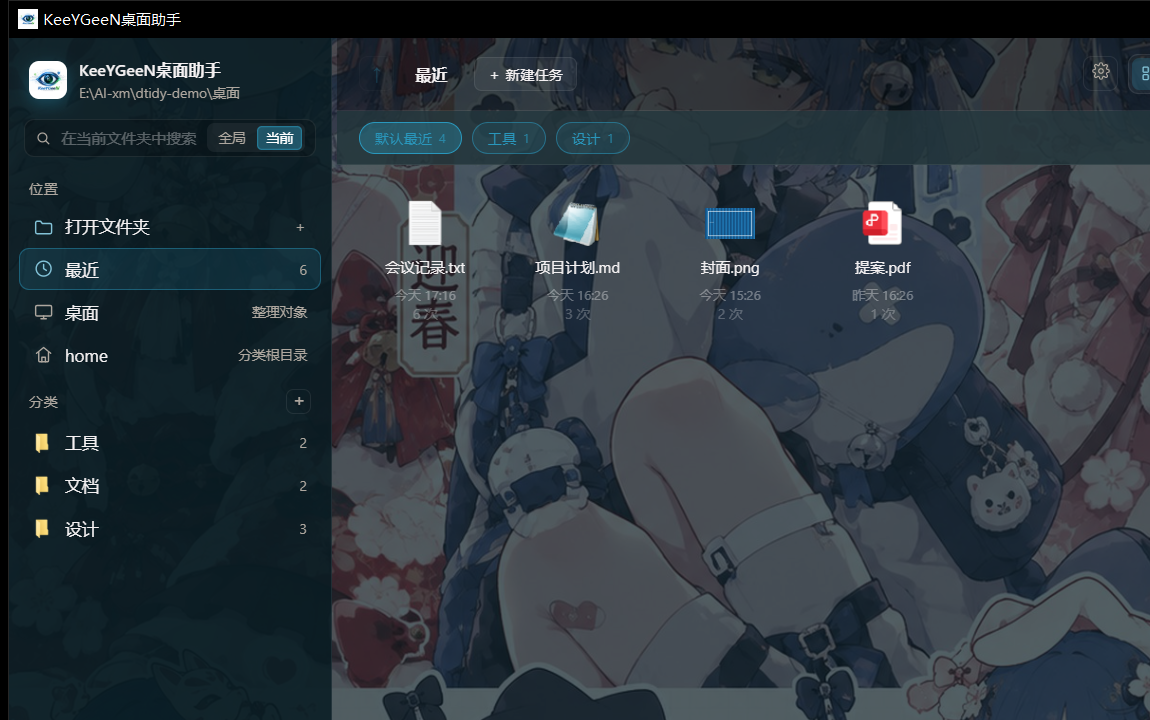
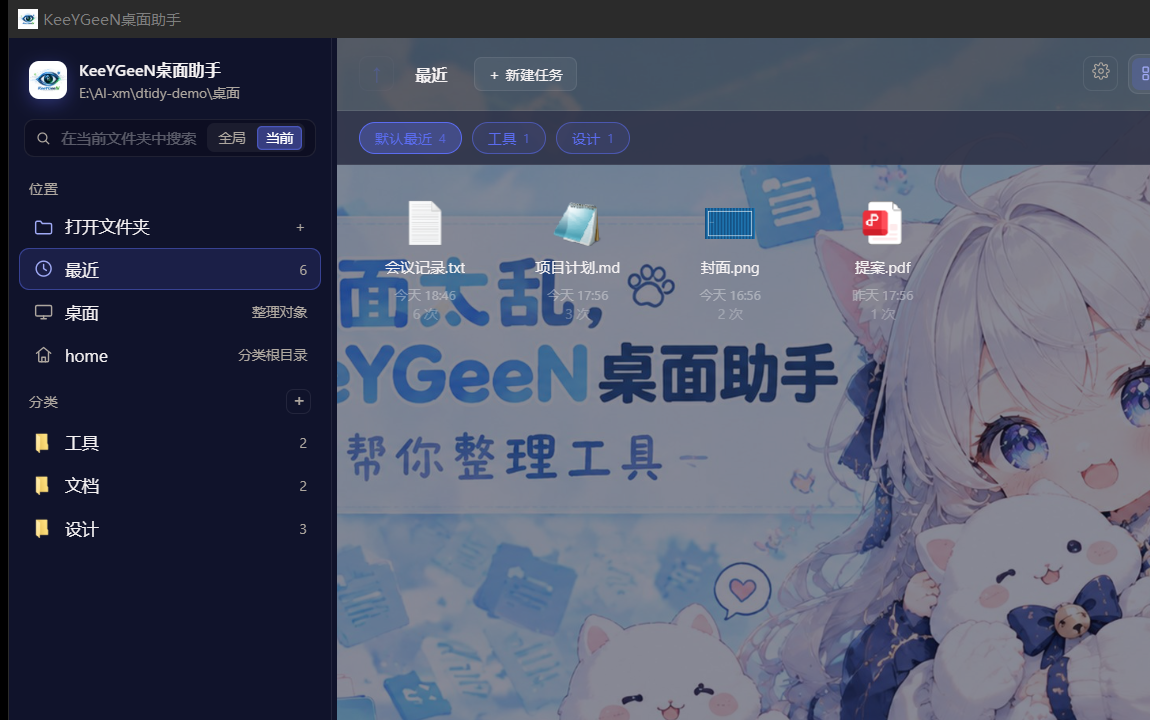
v0.13.2: 修复重复启动抢热键；README 首页图与脱敏界面截图更新

diff --git a/singleinstance_windows.go b/singleinstance_windows.go
@@ -4,36 +4,58 @@ package main
 
 import (
 	"syscall"
+	"time"
 	"unsafe"
 )
 
 var (
 	kernel32         = syscall.NewLazyDLL("kernel32.dll")
+	user32Single     = syscall.NewLazyDLL("user32.dll")
 	procCreateMutexW = kernel32.NewProc("CreateMutexW")
 	procCloseHandle  = kernel32.NewProc("CloseHandle")
+	procMessageBoxW  = user32Single.NewProc("MessageBoxW")
 )
 
 var singleInstanceMutex uintptr
 
-// ensureSingleInstance 防止重复启动：已有可见实例时唤出它并返回 false。
-// 若检测到的旧实例没有可见窗口（异常残留），则继续启动，避免应用打不开。
+// ensureSingleInstance 防止重复启动。
+//
+// 已经存在实例时：等待其主窗口出现（双击过快时第一个实例可能还没建好窗口），
+// 无论窗口是正常显示还是隐藏在托盘，都把它唤到前台后退出。
+// 即使找不到窗口也不再启动第二个实例——否则两个实例会争抢全局热键，
+// 出现「热键已被占用」的提示。
 func ensureSingleInstance() bool {
 	name, err := syscall.UTF16PtrFromString(appTitle + "_single_instance")
 	if err != nil {
 		return true
 	}
 	h, _, callErr := procCreateMutexW.Call(0, 0, uintptr(unsafe.Pointer(name)))
-	if h != 0 {
-		// Call 的第三个返回值就是 CreateMutexW 之后的 GetLastError
-		if errno, ok := callErr.(syscall.Errno); ok && errno == 183 { // ERROR_ALREADY_EXISTS
-			if w := findMainWindow(); w != 0 && isWindowVisible(w) {
-				procShowWindow.Call(w, swRestore)
-				procSetForegroundWnd.Call(w)
-				procCloseHandle.Call(h)
-				return false
-			}
-		}
-		singleInstanceMutex = h
+	if h == 0 {
+		return true
 	}
-	return true
+	if errno, ok := callErr.(syscall.Errno); !ok || errno != 183 { // ERROR_ALREADY_EXISTS
+		singleInstanceMutex = h
+		return true
+	}
+
+	// 已有实例：最多等 6 秒让它的主窗口就绪
+	deadline := time.Now().Add(6 * time.Second)
+	for time.Now().Before(deadline) {
+		if w := findMainWindow(); w != 0 {
+			procShowWindow.Call(w, swShowNormal)
+			procShowWindow.Call(w, swRestore)
+			procSetForegroundWnd.Call(w)
+			procCloseHandle.Call(h)
+			return false
+		}
+		time.Sleep(120 * time.Millisecond)
+	}
+
+	// 找不到窗口：互斥体被没有窗口的残留进程占着。仍然退出，
+	// 保证同一时间只有一个实例；提示用户从托盘图标唤出或清理残留进程。
+	title, _ := syscall.UTF16PtrFromString(appTitle)
+	text, _ := syscall.UTF16PtrFromString("程序已在运行，但主窗口未找到。\n请稍后从任务栏托盘图标中唤出，或结束残留进程后再试。")
+	procMessageBoxW.Call(0, uintptr(unsafe.Pointer(text)), uintptr(unsafe.Pointer(title)), 0x00000040)
+	procCloseHandle.Call(h)
+	return false
 }

diff --git a/app.go b/app.go
@@ -29,7 +29,7 @@ import (
 	"github.com/wailsapp/wails/v2/pkg/runtime"
 )
 
-var version = "0.13.1"
+var version = "0.13.2"
 
 // App 是暴露给前端的后端对象。
 type App struct {

diff --git a/docs/DESIGN.md b/docs/DESIGN.md
@@ -292,7 +292,7 @@ undo(batchID, cfg):
 - 布局：左栏 `搜索框 / 打开文件夹 / 已打开目录 / 桌面 / home / 分类 / 选中状态 + 移动按钮`；右栏路径栏 + 文件区（底部状态栏已并入侧栏）；侧栏与文件区之间是 `.splitter`，拖动范围 180–520px，写入 `sidebar_width`。
 - 搜索范围：`全局` 扫描桌面（含 home）、已打开文件夹与分类指定目录；`当前` 只扫描当前所在目录（分类同样适用），默认使用「当前」，切换后保存在 localStorage，搜索状态面包屑显示「当前：文件夹名」。
 - 文件右键：调用 `internal/shellmenu` 的原生 Shell 菜单（IContextMenu/IContextMenu2/IContextMenu3 + TrackPopupMenuEx），支持子菜单与第三方扩展；失败时回退内置菜单。为避免卡死 UI，菜单全部在独立的常驻 STA 线程执行（宿主 1×1 离屏窗口作 owner，弹出前临时置前；拿不到前台就取消并回退内置菜单）；每个请求有 `recover` 兜底，菜单 45 秒自动 `WM_CANCELMODE`，前端 60 秒超时复位。文件行走 `ShowShellMenu(paths)`（IShellFolder::GetUIObjectOf），文件区空白处走 `ShowShellMenuBackground(dir)`（BindToObject 得到目录 IShellFolder → CreateViewObject 取 IShellView → GetItemObject(SVGIO_BACKGROUND) 取背景菜单）。
-- 单实例：启动时用 `CreateMutexW`（名称前缀为窗口标题）判断；已有可见实例则还原并置前后退出，若旧进程无可见窗口则允许继续启动，避免残留进程导致打不开。菜单/COM 的所有调用都在独立 STA 线程完成，UI 线程只做界面渲染。
+- 单实例：启动时用 `CreateMutexW`（名称前缀为窗口标题）判断；已有实例时最多等待 6 秒让其主窗口就绪，无论窗口显示还是隐藏在托盘都唤到前台后退出；即使找不到窗口也不再启动第二个实例（避免两个实例争抢全局热键），并弹窗提示从托盘唤出或清理残留进程。菜单/COM 的所有调用都在独立 STA 线程完成，UI 线程只做界面渲染。
 - 删除分类：右键「删除分类…」先弹 `MessageDialog` 确认（默认按钮为取消），确认后 `os.RemoveAll` 删除分类文件夹并清理 `category_targets`、别名、图标等配置；已打开文件夹的 × 仍然只关闭不删除。
 - 侧栏自定义：`custom_folders` 持久化「打开文件夹」加入的目录，`item_aliases` / `item_icons` 保存显示名称与图标，右键菜单支持 自定义图标 / 重命名 / 指定文件夹 / 删除分类（已打开文件夹为关闭）；`hidden_categories` 记录被移除的分类，`category_targets` 记录分类指定的目标目录。
 - 搜索：左栏顶部输入框（防抖 260ms，Ctrl+F 聚焦），后端 `Search(query)` 递归扫描桌面（含 home），多个关键词按空格拆分且全部命中，最多 200 条；输入后按 Tab 唤出候选下拉，可视条数由 `search_candidates`（3–30）决定，可继续 ↑↓ 滚动查看全部结果；− + 切换、Enter 打开、Esc 关闭，条目高亮使用主题色；完整结果显示在文件区。

diff --git a/README.md b/README.md
@@ -2,13 +2,13 @@
 
 > **桌面太乱，这里有招。**
 
-![KeeYGeeN桌面助手](assets/promo-banner.png)
+![KeeYGeeN桌面助手](assets/keeygeen-banner.jpg)
 
 一个用 Go + Wails 写的 Windows / macOS 桌面整理工具：把散落在桌面上的文件归类进 `home` 下的分类，支持搜索、最近打开记录、任务分组、托盘小图标、深浅配色与字体自定义。所有数据只保存在本机。
 
 - 平台：Windows 10/11（x64）、macOS（Universal）
 - 许可：MIT（二次开发请保留协议并公开你的修改）
-- 版本：v0.13.1
+- 版本：v0.13.2
 
 ---
 
@@ -197,6 +197,7 @@ flowchart LR
 
 ## 版本历史
 
+- **v0.13.2** — 修复重复启动：第二次启动会唤出已有窗口（包括隐藏在托盘时）并退出，杜绝两个实例争抢全局热键
 - **v0.13.1** — 修复字号小数（13.5）保存报错；最近任务标签下置胶囊样式 + 独立配色；字体全局/分区设置
 - **v0.13.0** — 新增「最近」与任务分组；字体设置
 - **v0.12.1** — 任务标签布局与配色

diff --git a/docs/PRD.md b/docs/PRD.md
@@ -1,6 +1,6 @@
 # KeeYGeeN桌面助手 需求文档（PRD）
 
-> 版本：v0.13.1（修复字号小数保存报错 · 字体设置：字体/字号/文字颜色，支持全局与分区覆盖 · 「最近」+ 任务分组 · 系统托盘小图标 · 稳定性：右键菜单独立线程 + 单实例保护 + 超时兜底 · 新 logo · 关闭到托盘 · 设置弹窗跟随界面配色 · 安装包）
+> 版本：v0.13.2（修复重复启动与热键占用 · 字体设置 · 「最近」+ 任务分组 · 系统托盘小图标 · 稳定性：右键菜单独立线程 + 单实例保护 + 超时兜底 · 新 logo · 关闭到托盘 · 设置弹窗跟随界面配色 · 安装包）
 > 日期：2026-10-21
 > 状态：已实现，待验收
 
